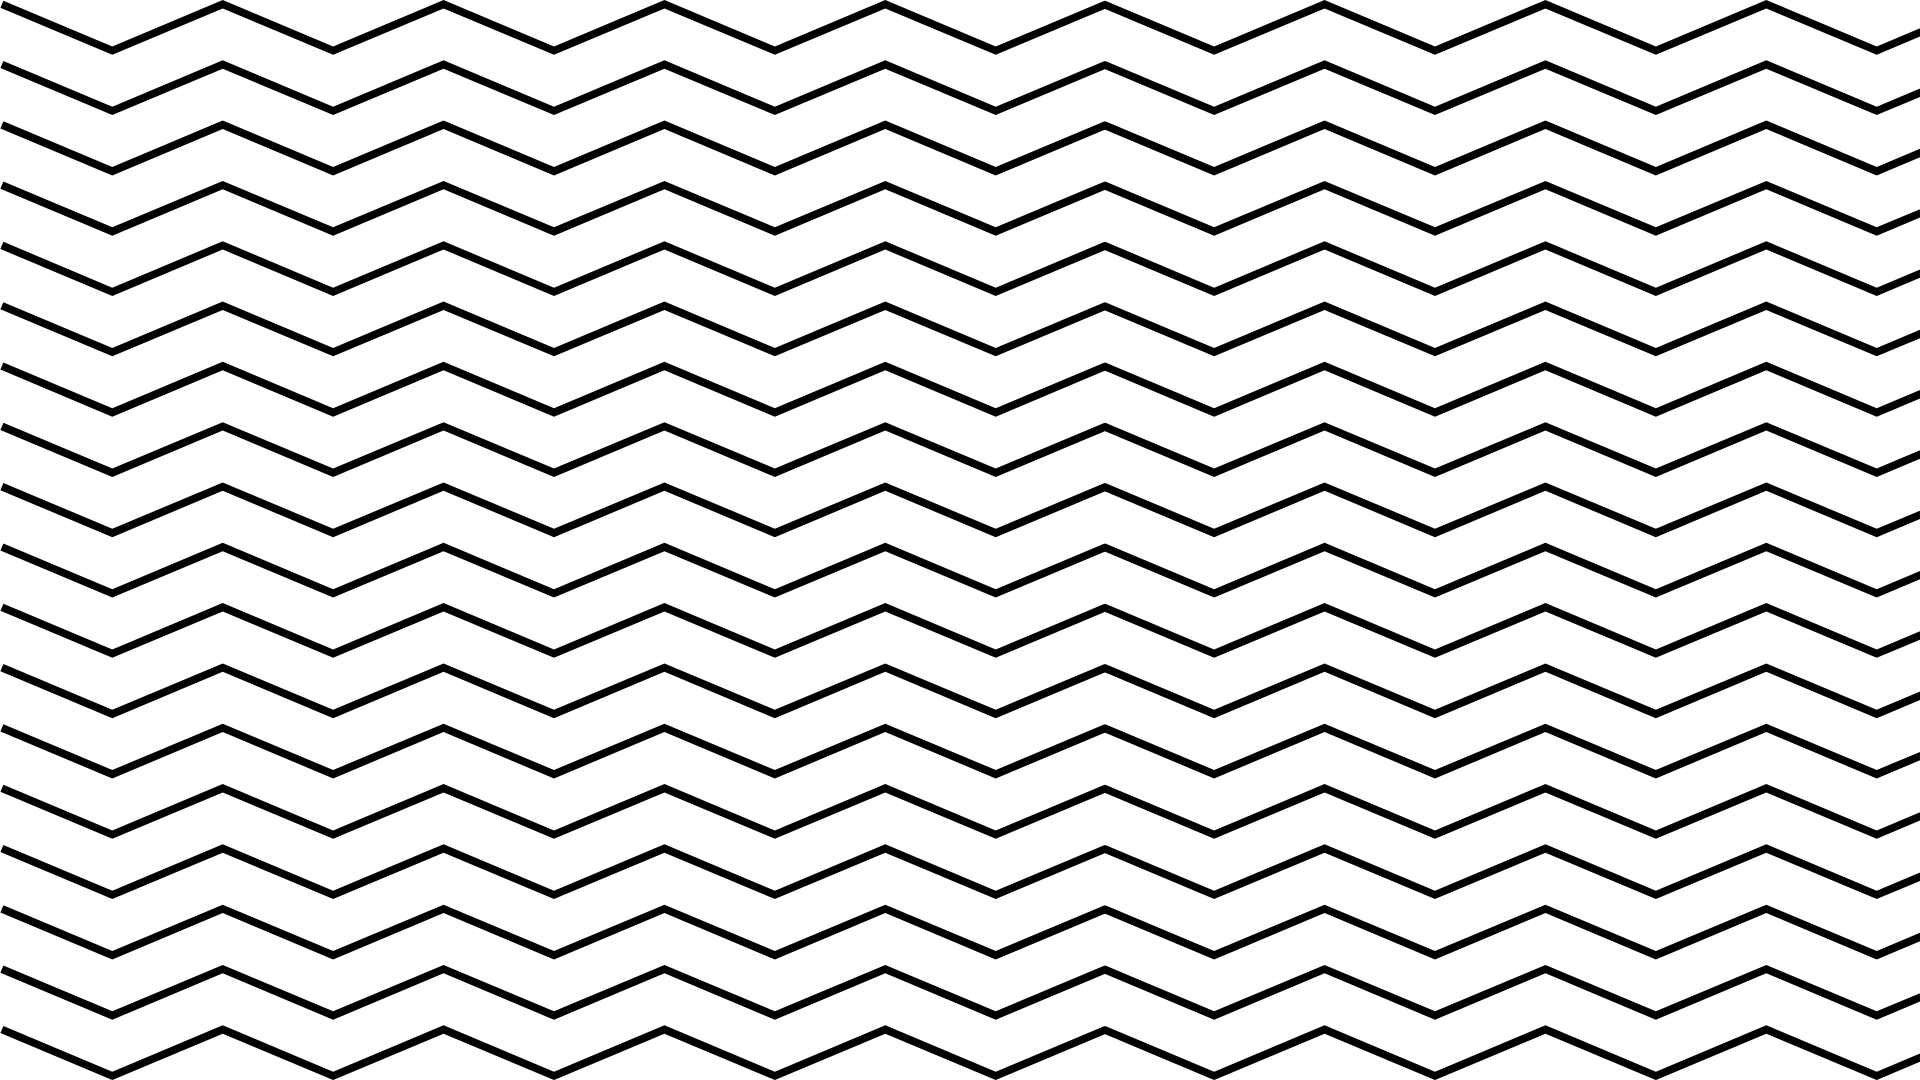
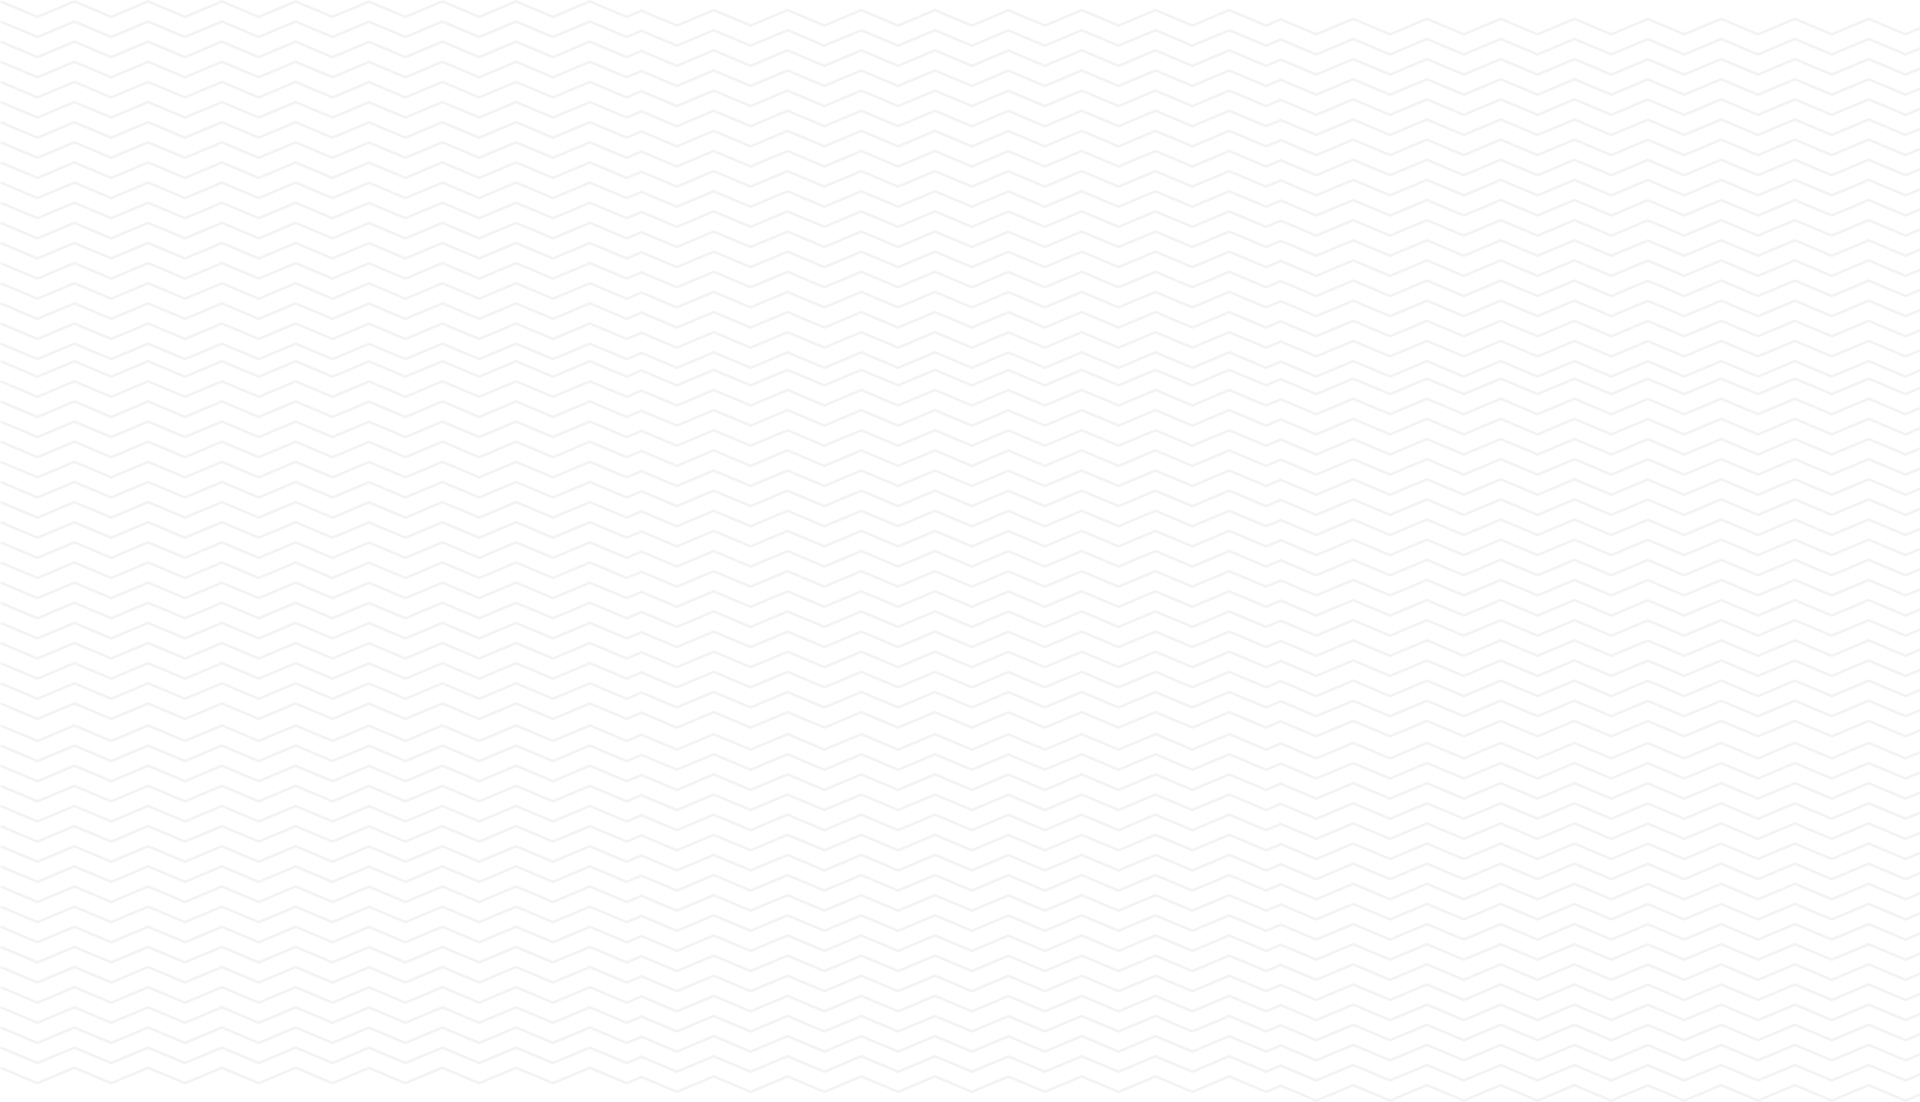
index1

diff --git a/_site/assets/css/style.css b/_site/assets/css/style.css
@@ -3,35 +3,96 @@
     padding: 0;
     box-sizing: border-box;
 }
-
 body{
-    background-color: #ffe4f7;
+    background-color: #fefefe;
+}
+p{
+    font-family: "Lora", serif;
+}
+h1, h2, h3, a{
+    font-family: "Zain", sans-serif;
+}
+
+/* Header */
+.cx-nav{
+    background-color: #c2c5fa;
+}
+nav{
+    display: flex;
+    width: 1200px;
+    margin: 0 auto;
+    height: 50px;
+    align-items: center;
+    justify-content: space-between;
+}
+nav .logo img{
+    width: 8%;
+}
+nav .menu a{
+    margin: 0px 10px;
+    text-decoration: none;
+    color: #fefefe;
+}
+nav .menu a:hover{
+    color: #170a1c;
+    text-shadow: 1px 1px 10px rgba(0, 0, 0, .5);
+}
+nav .rdSociais{
+    display: flex;
+    justify-content: center;
+    align-items: center;
+    height: 50px;
+}
+nav .rdSociais a{
+    display: block;
+    margin: 0px 10px;
+    height: 30px;
+    width: 30px;
+    border-radius: 100%;
+}
+nav .rdSociais a img{
+    width: 30px;
+    height: 30px;
+}
+
+.bVindos{
+    height: 440px;
+    background-image: url(/assets/img/fundo_header.png);
     background-position: center;
     background-repeat: no-repeat;
     background-size: cover;
+    background-attachment: fixed;
+    border-top: solid 1px transparent;
+}
+.bVindos .atalhos{
+    width: 580px;
+    height: 140px;
+    border-radius: 20px;
+    background-color: #b1e1ff;
+    margin: 360px auto 0px;
+    box-shadow: 1px 1px 10px rgba(0, 0, 0, .3);
+    position: relative;
+    z-index: 1;
+}
+
+
+.sec-prev{
+    background-image: url(/assets/img/pattern.png);
+    background-position: center;
+    background-attachment: fixed;
+    padding: 100px 0px 40px;
+}
+.sec-prev h1{
     text-align: center;
-    color: #170a1c;
 }
-body h1{
-    font-family: 'Franklin Gothic Medium', 'Arial Narrow', Arial, sans-serif;
-    margin-top: 10px;
-    font-size: 18px;
+.sec-prev p{
+    text-align: center;
+    margin: -10px 0px 30px;
 }
-body img{
-    margin-top: 140px;
-    width: 8%;
-
-    animation-name: pulse;
-    animation-duration: 1s;
-    animation-iteration-count: infinite;
-    animation-timing-function: linear;
-}
-@keyframes pulse {
-    0%{transform: scale(1.1); opacity: .5; filter: grayscale(100%);}
-}
-
-@media screen and (max-width:600px){
-    body img{
-        width: 30%;
-    }
+.cx-prev{
+    max-width: 1200px;
+    margin: 0 auto;
+    height: 500px;
+    box-shadow: 1px 1px 10px rgba(0, 0, 0, .5);
+    border-radius: 10px;
 }

diff --git a/assets/css/style.css b/assets/css/style.css
@@ -3,35 +3,96 @@
     padding: 0;
     box-sizing: border-box;
 }
-
 body{
-    background-color: #ffe4f7;
+    background-color: #fefefe;
+}
+p{
+    font-family: "Lora", serif;
+}
+h1, h2, h3, a{
+    font-family: "Zain", sans-serif;
+}
+
+/* Header */
+.cx-nav{
+    background-color: #c2c5fa;
+}
+nav{
+    display: flex;
+    width: 1200px;
+    margin: 0 auto;
+    height: 50px;
+    align-items: center;
+    justify-content: space-between;
+}
+nav .logo img{
+    width: 8%;
+}
+nav .menu a{
+    margin: 0px 10px;
+    text-decoration: none;
+    color: #fefefe;
+}
+nav .menu a:hover{
+    color: #170a1c;
+    text-shadow: 1px 1px 10px rgba(0, 0, 0, .5);
+}
+nav .rdSociais{
+    display: flex;
+    justify-content: center;
+    align-items: center;
+    height: 50px;
+}
+nav .rdSociais a{
+    display: block;
+    margin: 0px 10px;
+    height: 30px;
+    width: 30px;
+    border-radius: 100%;
+}
+nav .rdSociais a img{
+    width: 30px;
+    height: 30px;
+}
+
+.bVindos{
+    height: 440px;
+    background-image: url(/assets/img/fundo_header.png);
     background-position: center;
     background-repeat: no-repeat;
     background-size: cover;
+    background-attachment: fixed;
+    border-top: solid 1px transparent;
+}
+.bVindos .atalhos{
+    width: 580px;
+    height: 140px;
+    border-radius: 20px;
+    background-color: #b1e1ff;
+    margin: 360px auto 0px;
+    box-shadow: 1px 1px 10px rgba(0, 0, 0, .3);
+    position: relative;
+    z-index: 1;
+}
+
+
+.sec-prev{
+    background-image: url(/assets/img/pattern.png);
+    background-position: center;
+    background-attachment: fixed;
+    padding: 100px 0px 40px;
+}
+.sec-prev h1{
     text-align: center;
-    color: #170a1c;
 }
-body h1{
-    font-family: 'Franklin Gothic Medium', 'Arial Narrow', Arial, sans-serif;
-    margin-top: 10px;
-    font-size: 18px;
+.sec-prev p{
+    text-align: center;
+    margin: -10px 0px 30px;
 }
-body img{
-    margin-top: 140px;
-    width: 8%;
-
-    animation-name: pulse;
-    animation-duration: 1s;
-    animation-iteration-count: infinite;
-    animation-timing-function: linear;
-}
-@keyframes pulse {
-    0%{transform: scale(1.1); opacity: .5; filter: grayscale(100%);}
-}
-
-@media screen and (max-width:600px){
-    body img{
-        width: 30%;
-    }
+.cx-prev{
+    max-width: 1200px;
+    margin: 0 auto;
+    height: 500px;
+    box-shadow: 1px 1px 10px rgba(0, 0, 0, .5);
+    border-radius: 10px;
 }

diff --git a/_site/index.html b/_site/index.html
@@ -28,6 +28,11 @@
    <!-- CSS principal -->
     <link rel="stylesheet" href="/assets/css/style.css">
 
+    <!-- Fontes do site -->
+    <link rel="preconnect" href="https://fonts.googleapis.com">
+    <link rel="preconnect" href="https://fonts.gstatic.com" crossorigin>
+    <link href="https://fonts.googleapis.com/css2?family=Lora:ital,wght@0,400..700;1,400..700&family=Zain:ital,wght@0,200;0,300;0,400;0,700;0,800;0,900;1,300;1,400&display=swap" rel="stylesheet">
+
     <!-- Favicon (opcional) -->
     <link rel="icon" href="/assets/img/logo.png" type="image/png">
 
@@ -63,11 +68,53 @@
 </head>
 <body>
 
-  
+  <!DOCTYPE html>
+<html lang="pt-br">
+<head>
+    <meta charset="UTF-8">
+    <meta name="viewport" content="width=device-width, initial-scale=1.0">
+    <title>header</title>
+</head>
+<body>
+    <section class="sec-header">
+        <header class="header">
+            <div class="cx-nav">
+                <nav>
+                    <div class="logo">
+                        <img src="/assets/img/logo.png">
+                    </div>
+                    <div class="menu">
+                        <a class="menu-item" href="/">Início</a>
+                        <a class="menu-item" href="/blog/">Blog</a>
+                        <a class="menu-item" href="/textos/">Textos</a>
+                        <a class="menu-item" href="/sobre/">Sobre</a>
+                        <a class="menu-item" href="/contato/">Contato</a>
+                    </div>
+                    <div class="rdSociais">
+                        <a href="#">
+                            <img src="/assets/img/insta.png">
+                        </a>
+                        <a href="#">
+                            <img src="/assets/img/email.png">
+                        </a>
+                    </div>
+                </nav>
+            </div>
+            <div class="bVindos">
+                <div class="atalhos"></div>
+            </div>
+        </header>
+    </section>
+</body>
+</html>
 
   <main class="container">
-    <p><img src="http://localhost:4000/assets/img/logo.png" /></p>
-<h1>Em breve, mais um site artesanal.</h1>
+    <section class="sec-prev">
+    <h1>Acompanhe meu blog</h1>
+    <p>Textos não acadêmicos e reflexoões sobre o cotidiano</p>
+    <div class="cx-prev">
+    </div>
+</section>
 
   </main>
 

diff --git a/_includes/header.html b/_includes/header.html
@@ -1,0 +1,39 @@
+<!DOCTYPE html>
+<html lang="pt-br">
+<head>
+    <meta charset="UTF-8">
+    <meta name="viewport" content="width=device-width, initial-scale=1.0">
+    <title>header</title>
+</head>
+<body>
+    <section class="sec-header">
+        <header class="header">
+            <div class="cx-nav">
+                <nav>
+                    <div class="logo">
+                        <img src="{{'/assets/img/logo.png' | relative_url}}">
+                    </div>
+                    <div class="menu">
+                        <a class="menu-item" href="{{'/' | relative_url}}">Início</a>
+                        <a class="menu-item" href="{{'/blog/' | relative_url}}">Blog</a>
+                        <a class="menu-item" href="{{'/textos/' | relative_url}}">Textos</a>
+                        <a class="menu-item" href="{{'/sobre/' | relative_url}}">Sobre</a>
+                        <a class="menu-item" href="{{'/contato/' | relative_url}}">Contato</a>
+                    </div>
+                    <div class="rdSociais">
+                        <a href="#">
+                            <img src="{{'/assets/img/insta.png' | relative_url}}">
+                        </a>
+                        <a href="#">
+                            <img src="{{'/assets/img/email.png' | relative_url}}">
+                        </a>
+                    </div>
+                </nav>
+            </div>
+            <div class="bVindos">
+                <div class="atalhos"></div>
+            </div>
+        </header>
+    </section>
+</body>
+</html>

diff --git a/_includes/head.html b/_includes/head.html
@@ -26,6 +26,11 @@
    <!-- CSS principal -->
     <link rel="stylesheet" href="{{ '/assets/css/style.css' | relative_url }}">
 
+    <!-- Fontes do site -->
+    <link rel="preconnect" href="https://fonts.googleapis.com">
+    <link rel="preconnect" href="https://fonts.gstatic.com" crossorigin>
+    <link href="https://fonts.googleapis.com/css2?family=Lora:ital,wght@0,400..700;1,400..700&family=Zain:ital,wght@0,200;0,300;0,400;0,700;0,800;0,900;1,300;1,400&display=swap" rel="stylesheet">
+
     <!-- Favicon (opcional) -->
     <link rel="icon" href="{{ '/assets/img/logo.png' | relative_url }}" type="image/png">
 

diff --git a/index.md b/index.md
@@ -3,5 +3,9 @@ layout: default
 title: Início
 ---
 
-<img src="{{ '/assets/img/logo.png' | absolute_url }}">
-<h1>Em breve, mais um site artesanal.</h1>
+<section class="sec-prev">
+    <h1>Acompanhe meu blog</h1>
+    <p>Textos não acadêmicos e reflexoões sobre o cotidiano</p>
+    <div class="cx-prev">
+    </div>
+</section>